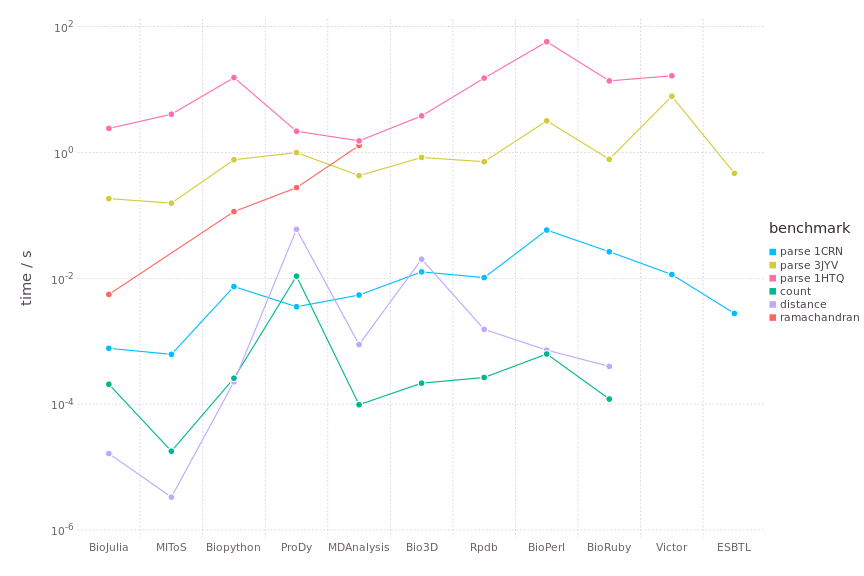
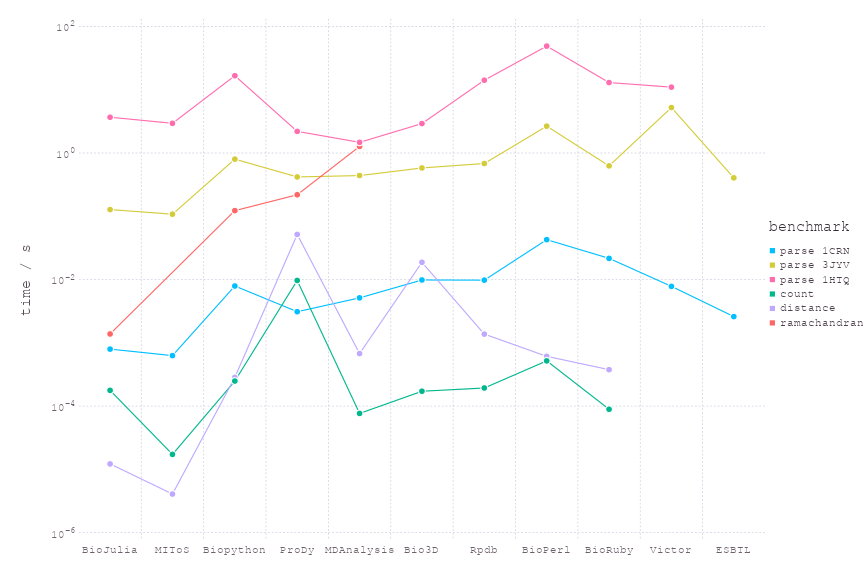
re-run benchmarks

diff --git a/Biopython/ramachandran.py b/Biopython/ramachandran.py
@@ -2,7 +2,7 @@
 
 import time
 from Bio.PDB import PDBParser
-from Bio.PDB.Vector import calc_dihedral
+from Bio.PDB.vectors import calc_dihedral
 
 pdb_filepath = "pdbs/1AKE.pdb"
 parser = PDBParser()

diff --git a/README.md b/README.md
@@ -23,20 +23,20 @@ Disclosure: I contributed the BioStructures.jl package to BioJulia and have made
 
 The PDB files can be downloaded to directory `pdbs` by running `source tools/download_pdbs.sh` from this directory. If you have all the software installed, and compiled where applicable, you can use the script `tools/run_benchmarks.sh` from this directory to run the benchmarks. The mean over a number of runs is taken for each benchmark to obtain the values below.
 
-Benchmarks were carried out on an Intel Xeon CPU E5-1620 v3 3.50GHz x 8 processor with 32 GB 2400 MHz DDR4 RAM. The operating system was CentOS v7.4.1708. Time is the elapsed time.
+Benchmarks were carried out on an Intel Xeon CPU E5-1620 v3 3.50GHz x 8 processor with 32 GB 2400 MHz DDR4 RAM. The operating system was CentOS v8.1. Time is the elapsed time.
 
 
 ## Software
 
-* [BioJulia](https://github.com/BioJulia/BioStructures.jl) v0.6.0 running on Julia v1.1.0 (times measured after JIT compilation).
-* [MIToS](https://github.com/diegozea/MIToS.jl) v2.4.0 running on Julia v1.1.0 (times measured after JIT compilation).
-* [Biopython](http://biopython.org/wiki/Biopython) v1.74 running on Python v3.7.3.
-* [ProDy](http://prody.csb.pitt.edu/) v1.10.10 running on Python v3.7.3.
-* [MDAnalysis](http://www.mdanalysis.org/) v0.20.1 running on Python v3.7.3.
-* [Bio3D](http://thegrantlab.org/bio3d/index.php) v2.3-4 running on R v3.5.0.
-* [Rpdb](https://cran.r-project.org/web/packages/Rpdb/index.html) v2.3 running on R v3.5.0.
-* [BioPerl](http://bioperl.org/index.html) v1.007002 running on Perl v5.16.3.
-* [BioRuby](http://bioruby.org/) v1.5.1 running on Ruby v2.0.0.
+* [BioStructures](https://github.com/BioJulia/BioStructures.jl) v0.9.2 running on Julia v1.3.1 (times measured after JIT compilation).
+* [MIToS](https://github.com/diegozea/MIToS.jl) v2.4.0 running on Julia v1.3.1 (times measured after JIT compilation).
+* [Biopython](http://biopython.org/wiki/Biopython) v1.76 running on Python v3.7.4.
+* [ProDy](http://prody.csb.pitt.edu/) v1.10.11 running on Python v3.7.4.
+* [MDAnalysis](http://www.mdanalysis.org/) v0.20.1 running on Python v3.7.4.
+* [Bio3D](http://thegrantlab.org/bio3d/index.php) v2.4.1 running on R v3.6.2.
+* [Rpdb](https://cran.r-project.org/web/packages/Rpdb/index.html) v2.3 running on R v3.6.2.
+* [BioPerl](http://bioperl.org/index.html) v1.007002 running on Perl v5.26.3.
+* [BioRuby](http://bioruby.org/) v2.0.1 running on Ruby v2.5.5.
 * [Victor](http://protein.bio.unipd.it/victor/index.php/Main_Page) v1.0 compiled with g++ v7.3.1.
 * [ESBTL](http://esbtl.sourceforge.net/index.html) v1.0-beta01 compiled with g++ v7.3.1.
 
@@ -52,23 +52,23 @@ Note that direct comparison between these times should be treated with caution, 
 
 Each package supports these to varying degrees.
 
-|                       | BioJulia     | MIToS        | Biopython    | ProDy        | MDAnalysis   | Bio3D        | Rpdb         | BioPerl       | BioRuby      | Victor        | ESBTL        |
-| :-------------------- | :----------- | :----------- | :----------- | :----------- | :----------- | :----------- | :----------- | :------------ | :----------- | :------------ | :----------- |
-| Parse 1CRN / ms       | 0.77         | 0.62         | 7.4          | 3.5          | 5.4          | 13           | 10           | 58            | 26           | 11            | 2.8          |
-| Parse 3JYV / s        | 0.18         | 0.16         | 0.76         | 0.99         | 0.43         | 0.83         | 0.71         | 3.2           | 0.78         | 7.8           | 0.46         |
-| Parse 1HTQ / s        | 2.4          | 4.0          | 15           | 2.2          | 1.5          | 3.8          | 15           | 57            | 14           | 16            | -            |
-| Count / ms            | 0.21         | 0.018        | 0.26         | 11           | 0.098        | 0.22         | 0.26         | 0.63          | 0.12         | -             | -            |
-| Distance / ms         | 0.016        | 0.0033       | 0.23         | 60           | 0.88         | 20           | 1.5          | 0.72          | 0.40         | -             | -            |
-| Ramachandran / ms     | 5.5          | -            | 110          | 280          | 1300         | -            | -            | -             | -            | -             | -            |
-| Language              | Julia        | Julia        | Python       | Python       | Python       | R            | R            | Perl          | Ruby         | C++           | C++          |
-| Parses header         | ✗            | ✗            | ✓            | ✓            | ✗            | ✓            | ✓            | ✗             | ✓            | ✓             | ✗            |
-| Hierarchichal parsing | ✓            | ✗            | ✓            | ✓            | ✓            | ✗            | ✗            | ✓             | ✓            | ✓             | ✓            |
-| Supports disorder     | ✓            | ✗            | ✓            | ✗            | ✗            | ✗            | ✗            | ✗             | ✗            | ✗             | ✓            |
-| Writes PDBs           | ✓            | ✓            | ✓            | ✓            | ✓            | ✓            | ✓            | ✓             | ✗            | ✓             | ✓            |
-| Superimposition       | ✓            | ✓            | ✓            | ✓            | ✓            | ✓            | ✗            | ✗             | ✗            | ✗             | ✗            |
-| PCA                   | ✗            | ✗            | ✗            | ✓            | ✓            | ✓            | ✗            | ✗             | ✗            | ✗             | ✗            |
-| License               | MIT          | MIT          | Biopython    | MIT          | GPLv2        | GPLv2        | GPL          | GPL/Artistic  | Ruby         | GPLv3         | GPLv3        |
-
+|                       | BioStructures | MIToS         | Biopython     | ProDy         | MDAnalysis    | Bio3D         | Rpdb          | BioPerl       | BioRuby       | Victor        | ESBTL         |
+| :-------------------- | :------------ | :------------ | :------------ | :------------ | :------------ | :------------ | :------------ | :------------ | :------------ | :------------ | :------------ |
+| Parse 1CRN / ms       | 0.79          | 0.63          | 7.9           | 3.1           | 5.1           | 9.8           | 9.8           | 43            | 22            | 7.8           | 2.6           |
+| Parse 3JYV / s        | 0.13          | 0.11          | 0.80          | 0.42          | 0.44          | 0.58          | 0.68          | 2.7           | 0.63          | 5.2           | 0.40          |
+| Parse 1HTQ / s        | 3.7           | 2.9           | 17            | 2.2           | 1.5           | 2.9           | 14            | 49            | 13            | 11            | -             |
+| Count / ms            | 0.18          | 0.017         | 0.25          | 9.7           | 0.077         | 0.17          | 0.19          | 0.52          | 0.089         | -             | -             |
+| Distance / ms         | 0.012         | 0.0041        | 0.28          | 52            | 0.68          | 19            | 1.4           | 0.61          | 0.38          | -             | -             |
+| Ramachandran / ms     | 1.4           | -             | 120           | 220           | 1300          | -             | -             | -             | -             | -             | -             |
+| Language              | Julia         | Julia         | Python        | Python        | Python        | R             | R             | Perl          | Ruby          | C++           | C++           |
+| Parses header         | ✗             | ✗             | ✓             | ✓             | ✗             | ✓             | ✓             | ✗             | ✓             | ✓             | ✗             |
+| Hierarchichal parsing | ✓             | ✗             | ✓             | ✓             | ✓             | ✗             | ✗             | ✓             | ✓             | ✓             | ✓             |
+| Supports disorder     | ✓             | ✗             | ✓             | ✗             | ✗             | ✗             | ✗             | ✗             | ✗             | ✗             | ✓             |
+| Writes PDBs           | ✓             | ✓             | ✓             | ✓             | ✓             | ✓             | ✓             | ✓             | ✗             | ✓             | ✓             |
+| Superimposition       | ✓             | ✓             | ✓             | ✓             | ✓             | ✓             | ✗             | ✗             | ✗             | ✗             | ✗             |
+| PCA                   | ✗             | ✗             | ✗             | ✓             | ✓             | ✓             | ✗             | ✗             | ✗             | ✗             | ✗             |
+| License               | MIT           | MIT           | Biopython     | MIT           | GPLv2         | GPLv2         | GPLv2/GPLv3   | GPL/Artistic  | Ruby          | GPLv3         | GPLv3         |
+ 
 Benchmarks as a plot:
 
 ![benchmarks](plot/plot.png "benchmarks")
